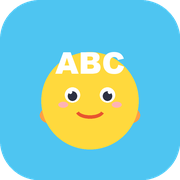
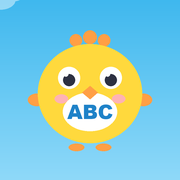
图标重做：从「黄圆圈贴大字」升级为完整小鸟角色
旧版问题：鸟只有一个圆脸、ABC 字过大压脸、翅膀几乎看不见、
蓝底留白过多——小尺寸下糊成一坨，桌面图标难看。

新版设计（icon.svg / 4 个 PNG / og 封面全部重绘，角色统一）：
- 完整小鸟：头顶羽簇 + 大眼（白底黑瞳高光）+ 橙嘴 + 腮红
  + 探出的翅膀 + 白肚皮 ABC（品牌标识）+ 小脚
- 蓝天渐变底 + 半透明白云 + 圆角图标加贴纸白边，任何壁纸上都跳得出来
- 4x 超采样抗锯齿，192 小尺寸轮廓依然清晰
- maskable 版鸟与内容收进 80% 安全区（圆形/圆角方裁切都不切内容）
- apple-touch-icon 全幅无白边（iOS 自己裁圆角）

缓存穿透（否则用户设备几周都还是旧图标）：
- sw.js CACHE v40 → v41，CORE 重新预取全部 PNG
- 9 个 HTML 的 icon.svg / apple-touch-icon 引用加 ?v=2
  （iOS 对 apple-touch-icon 缓存极狠，必须换 URL）

diff --git a/sw.js b/sw.js
@@ -3,12 +3,12 @@
    - 页面导航：网络优先（在线永远拿到最新版页面，发版即生效；断网回退缓存）
    - 带版本号的静态资源：缓存优先（版本号变更即新 URL，天然绕开旧缓存）
    - 有道发音：边播边缓存（听过一次，离线还能再听） */
-const CACHE = 'birdie-abc-v40';
+const CACHE = 'birdie-abc-v41';
 const CORE = [
   './', './index.html', './letters.html', './words.html', './books.html',
   './grammar.html', './games.html', './parents.html', './disclaimer.html', './404.html',
   './css/style.css?v=28', './js/words-data.js?v=26', './js/data.js?v=26', './js/app.js?v=37', './js/sentence.js?v=39',
-  './manifest.json', './icon.svg', './icon-192.png', './icon-512.png', './icon-maskable-512.png', './apple-touch-icon.png', './og-cover.png'
+  './manifest.json', './icon.svg?v=2', './icon-192.png', './icon-512.png', './icon-maskable-512.png', './apple-touch-icon.png?v=2', './og-cover.png'
 ];
 self.addEventListener('install', e => {
   e.waitUntil(caches.open(CACHE).then(c => c.addAll(CORE)).then(() => self.skipWaiting()));

diff --git a/index.html b/index.html
@@ -5,8 +5,8 @@
 <meta name="viewport" content="width=device-width, initial-scale=1.0">
 <meta name="theme-color" content="#4EC5F1">
 <meta name="description" content="一年级起步的小学英语学习网站：1000 个必背词汇按年级分主题，字母象形故事 + 自然拼读，句子小火车万能公式，12 本点读绘本，4 个复习游戏。安全纯净，进度保存在本机。">
-<link rel="icon" type="image/svg+xml" href="icon.svg">
-<link rel="apple-touch-icon" href="apple-touch-icon.png">
+<link rel="icon" type="image/svg+xml" href="icon.svg?v=2">
+<link rel="apple-touch-icon" href="apple-touch-icon.png?v=2">
 <meta property="og:type" content="website">
 <meta property="og:site_name" content="小鸟英语乐园 Birdie ABC">
 <meta property="og:title" content="小鸟英语乐园 · 一年级英语启蒙">

diff --git a/words.html b/words.html
@@ -5,8 +5,8 @@
 <meta name="viewport" content="width=device-width, initial-scale=1.0">
 <meta name="theme-color" content="#4EC5F1">
 <meta name="description" content="小学 1-6 年级 1000 个必背词汇，按年级分主题，每个词都有记忆法拆解；练一练、拼写工坊、中英搜索、艾宾浩斯复习。">
-<link rel="icon" type="image/svg+xml" href="icon.svg">
-<link rel="apple-touch-icon" href="apple-touch-icon.png">
+<link rel="icon" type="image/svg+xml" href="icon.svg?v=2">
+<link rel="apple-touch-icon" href="apple-touch-icon.png?v=2">
 <meta property="og:type" content="website">
 <meta property="og:site_name" content="小鸟英语乐园 Birdie ABC">
 <meta property="og:title" content="单词镇 · 小学 1000 词 · 小鸟英语乐园">

diff --git a/letters.html b/letters.html
@@ -5,8 +5,8 @@
 <meta name="viewport" content="width=device-width, initial-scale=1.0">
 <meta name="theme-color" content="#4EC5F1">
 <meta name="description" content="26 个英文字母的象形小故事 + 自然拼读（字母名/字母音各读一遍），还有拼音小桥梁，防止 b/d/p/q 混淆。">
-<link rel="icon" type="image/svg+xml" href="icon.svg">
-<link rel="apple-touch-icon" href="apple-touch-icon.png">
+<link rel="icon" type="image/svg+xml" href="icon.svg?v=2">
+<link rel="apple-touch-icon" href="apple-touch-icon.png?v=2">
 <meta property="og:type" content="website">
 <meta property="og:site_name" content="小鸟英语乐园 Birdie ABC">
 <meta property="og:title" content="字母岛 · 26 个字母朋友 · 小鸟英语乐园">

diff --git a/grammar.html b/grammar.html
@@ -5,8 +5,8 @@
 <meta name="viewport" content="width=device-width, initial-scale=1.0">
 <meta name="theme-color" content="#4EC5F1">
 <meta name="description" content="零基础也能懂的英语句子思维：谁 + 干什么 + 什么，16 关三阶段，造句题用单词镇的单词实时生成。">
-<link rel="icon" type="image/svg+xml" href="icon.svg">
-<link rel="apple-touch-icon" href="apple-touch-icon.png">
+<link rel="icon" type="image/svg+xml" href="icon.svg?v=2">
+<link rel="apple-touch-icon" href="apple-touch-icon.png?v=2">
 <meta property="og:type" content="website">
 <meta property="og:site_name" content="小鸟英语乐园 Birdie ABC">
 <meta property="og:title" content="句子工厂 · 万能公式 16 关 · 小鸟英语乐园">

diff --git a/books.html b/books.html
@@ -5,8 +5,8 @@
 <meta name="viewport" content="width=device-width, initial-scale=1.0">
 <meta name="theme-color" content="#4EC5F1">
 <meta name="description" content="12 本连续故事绘本，同一主角贯穿始终；点句子听词典真人朗读，逐词高亮跟读，翻页自动预热。">
-<link rel="icon" type="image/svg+xml" href="icon.svg">
-<link rel="apple-touch-icon" href="apple-touch-icon.png">
+<link rel="icon" type="image/svg+xml" href="icon.svg?v=2">
+<link rel="apple-touch-icon" href="apple-touch-icon.png?v=2">
 <meta property="og:type" content="website">
 <meta property="og:site_name" content="小鸟英语乐园 Birdie ABC">
 <meta property="og:title" content="绘本馆 · 12 本点读绘本 · 小鸟英语乐园">

diff --git a/games.html b/games.html
@@ -5,8 +5,8 @@
 <meta name="viewport" content="width=device-width, initial-scale=1.0">
 <meta name="theme-color" content="#4EC5F1">
 <meta name="description" content="听音选字母、图词翻翻乐、拼词小火车、句子火车员 4 个游戏，优先复习学过的单词。">
-<link rel="icon" type="image/svg+xml" href="icon.svg">
-<link rel="apple-touch-icon" href="apple-touch-icon.png">
+<link rel="icon" type="image/svg+xml" href="icon.svg?v=2">
+<link rel="apple-touch-icon" href="apple-touch-icon.png?v=2">
 <meta property="og:type" content="website">
 <meta property="og:site_name" content="小鸟英语乐园 Birdie ABC">
 <meta property="og:title" content="游戏乐园 · 边玩边学 · 小鸟英语乐园">

diff --git a/parents.html b/parents.html
@@ -5,8 +5,8 @@
 <meta name="viewport" content="width=device-width, initial-scale=1.0">
 <meta name="theme-color" content="#4EC5F1">
 <meta name="description" content="孩子的学习进度报告、各年级词汇掌握情况、学习方法说明与家长使用建议。">
-<link rel="icon" type="image/svg+xml" href="icon.svg">
-<link rel="apple-touch-icon" href="apple-touch-icon.png">
+<link rel="icon" type="image/svg+xml" href="icon.svg?v=2">
+<link rel="apple-touch-icon" href="apple-touch-icon.png?v=2">
 <meta property="og:type" content="website">
 <meta property="og:site_name" content="小鸟英语乐园 Birdie ABC">
 <meta property="og:title" content="家长中心 · 小鸟英语乐园">

diff --git a/disclaimer.html b/disclaimer.html
@@ -5,8 +5,8 @@
 <meta name="viewport" content="width=device-width, initial-scale=1.0">
 <meta name="theme-color" content="#4EC5F1">
 <meta name="description" content="小鸟英语乐园的免责声明、隐私政策与使用条款。">
-<link rel="icon" type="image/svg+xml" href="icon.svg">
-<link rel="apple-touch-icon" href="apple-touch-icon.png">
+<link rel="icon" type="image/svg+xml" href="icon.svg?v=2">
+<link rel="apple-touch-icon" href="apple-touch-icon.png?v=2">
 <meta property="og:type" content="website">
 <meta property="og:site_name" content="小鸟英语乐园 Birdie ABC">
 <meta property="og:title" content="声明与条款 · 小鸟英语乐园">

diff --git a/404.html b/404.html
@@ -6,8 +6,8 @@
 <meta name="theme-color" content="#4EC5F1">
 <meta name="description" content="页面飞走了！回到小鸟英语乐园，继续开心学英语。">
 <meta name="robots" content="noindex">
-<link rel="icon" type="image/svg+xml" href="icon.svg">
-<link rel="apple-touch-icon" href="apple-touch-icon.png">
+<link rel="icon" type="image/svg+xml" href="icon.svg?v=2">
+<link rel="apple-touch-icon" href="apple-touch-icon.png?v=2">
 <meta property="og:type" content="website">
 <meta property="og:site_name" content="小鸟英语乐园 Birdie ABC">
 <meta property="og:title" content="页面飞走了 · 小鸟英语乐园">
